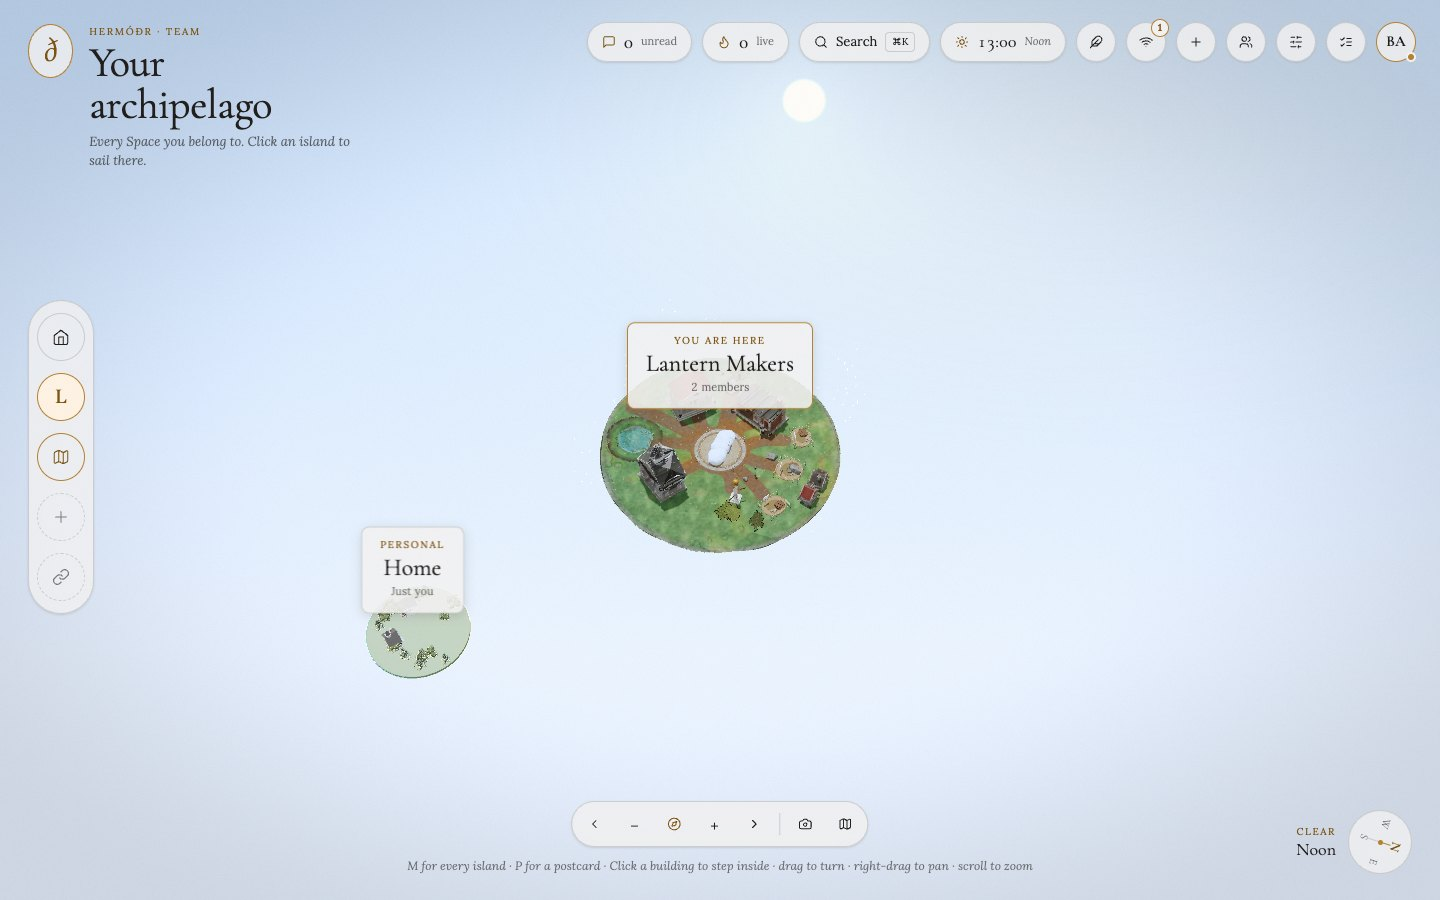
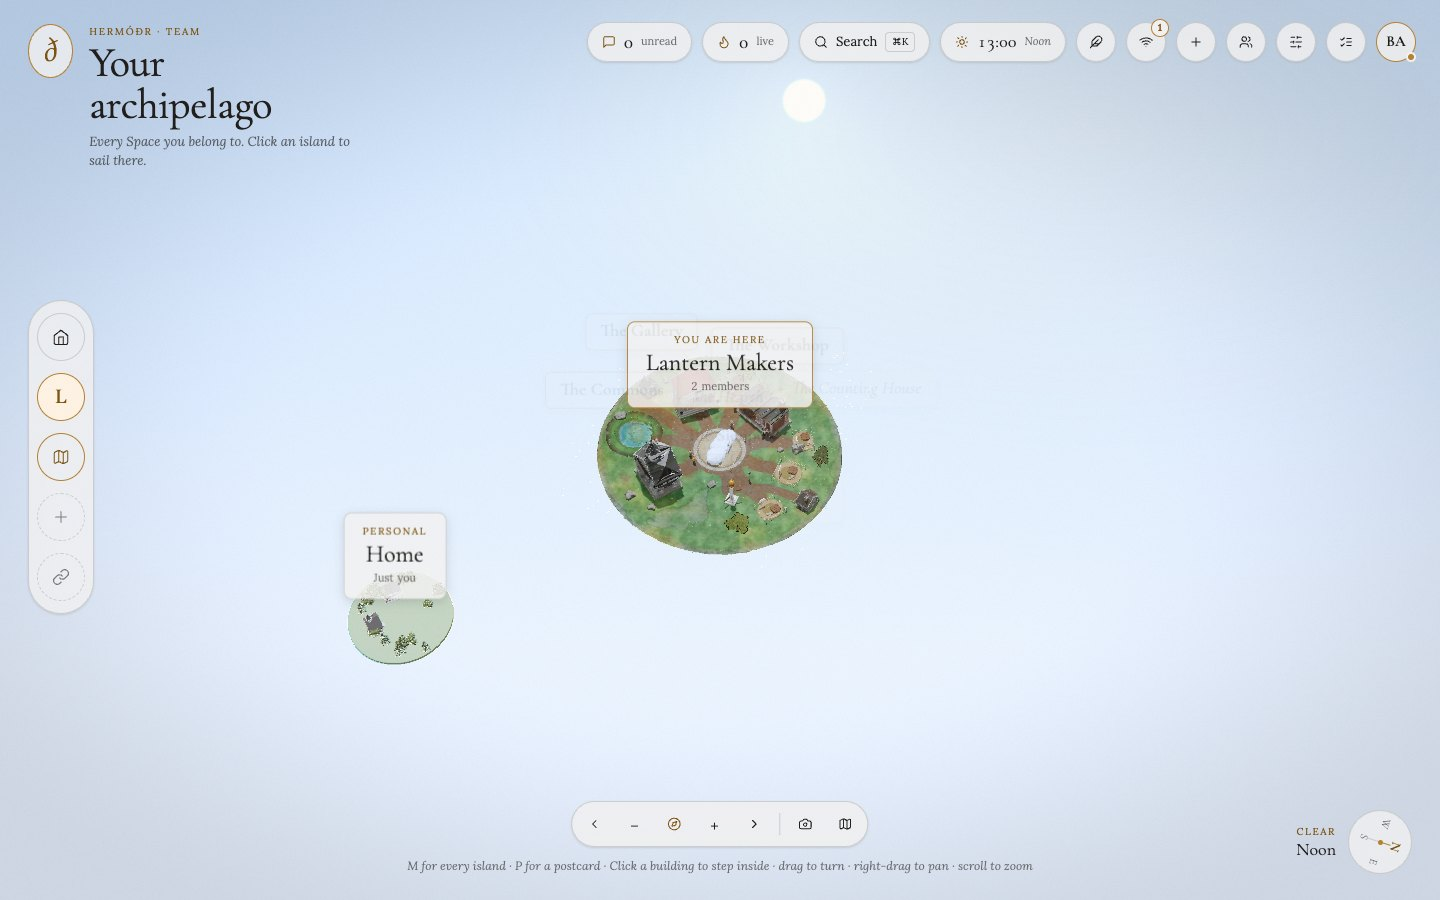
docs: feature showcase with real screenshots of every section in README and site

Changed region(s): [[0.4062, 0.3422, 0.5938, 0.6222], [0.2188, 0.56, 0.3438, 0.7778]]

diff --git a/e2e/shots.spec.ts b/e2e/shots.spec.ts
@@ -1,6 +1,7 @@
 import type { Locator, Page } from '@playwright/test';
-import { test, expect, twoUsers, createSpace, createInviteCode, joinWithCode, enterSection, toIsland, openPalette, say, toast } from './fixtures';
+import { test, expect, twoUsers, createSpace, createInviteCode, joinWithCode, enterSection, toIsland, openPalette, say, toast, pngBuffer } from './fixtures';
 import { freshDevhosts } from './devhosts';
+import { GL_ARGS } from './gpu';
 
 /**
  * README and site screenshots, taken headless from the real app: two devhosts, real P2P sync, content typed through the UI.
@@ -14,7 +15,13 @@ const SETTLE_MS = 2_500;
 const SYNC = { timeout: 60_000 };
 const SPACE = 'Lantern Makers';
 const TAGLINE = 'Paper, wire and late nights';
+/** Opening moves (from, to) played alternately by Ada and Bo for the arcade picture. */
+const CHESS_LINE: readonly [string, string][] = [['e2', 'e4'], ['e7', 'e5'], ['g1', 'f3'], ['b8', 'c6'], ['f1', 'b5'], ['a7', 'a6']];
+const DOC_TITLE = 'Lantern care manual';
+const DM_LINES = ['Did the washi survive the rain?', 'Dry as a bone. I wrapped it in the blue tarp.', 'Perfect. Can you bring the glue gun tomorrow?'];
 
+/** Chromium fake capture devices stand in for a microphone and camera, so a call connects headless. */
+test.use({ launchOptions: { args: [...GL_ARGS, '--use-fake-device-for-media-stream', '--use-fake-ui-for-media-stream'] } });
 test.skip(!process.env.SHOTS, 'screenshots run only with SHOTS=1 (npm run shots)');
 test.describe.configure({ mode: 'serial' });
 
@@ -110,4 +117,228 @@ test('every island', async () => {
   await b.keyboard.press('m');
   await shot(b, 'islands');
   await b.keyboard.press('Escape');
+});
+
+/** Sails back to the main Space (the DM test leaves both people on the DM island). */
+const toSpace = async (...pages: Page[]) => {
+  for (const p of pages) {
+    await toIsland(p);
+    await p.getByRole('navigation', { name: 'Spaces' }).getByRole('button', { name: SPACE }).click();
+    await expect(p.getByRole('heading', { level: 1 })).toHaveText(SPACE, SYNC);
+  }
+};
+const tabOf = (p: Page, name: string) => p.getByRole('tab', { name, exact: true }).last();
+
+test('feed with photos and a note', async () => {
+  test.setTimeout(300_000);
+  await enterSection(a, 'feed');
+  const photos: [string, [number, number, number]][] = [['Washi, fresh off the roll', [236, 190, 120]], ['Wire frame number three', [90, 110, 150]]];
+  for (const [title, [r, g, bl]] of photos) {
+    await btn(a, 'New post').click();
+    const [chooser] = await Promise.all([a.waitForEvent('filechooser'), btn(a, 'Choose a photo').click()]);
+    await chooser.setFiles([{ name: 'photo.png', mimeType: 'image/png', buffer: pngBuffer(r, g, bl) }]);
+    await a.getByLabel('Title (required)').fill(title);
+    await btn(a, 'Publish').click();
+    await expect(a.getByRole('article', { name: title })).toBeVisible();
+  }
+  await btn(a, 'New post').click();
+  await a.getByRole('radiogroup', { name: 'Kind of post' }).getByText('Note', { exact: true }).click();
+  await a.getByLabel('Title (required)').fill('Market stall plan');
+  await a.getByLabel('Note (required)').fill('Lanterns on the left, paper stars on the right, price cards in front.');
+  await btn(a, 'Publish').click();
+  await expect(a.getByRole('article', { name: 'Market stall plan' })).toBeVisible();
+  await enterSection(b, 'feed');
+  await expect(b.getByRole('article', { name: 'Market stall plan' })).toBeVisible(SYNC);
+  await a.mouse.move(0, 0);
+  await shot(a, 'feed');
+});
+
+test('gallery docs with a checklist', async () => {
+  test.setTimeout(300_000);
+  await enterSection(a, 'board');
+  await tabOf(a, 'Docs').click();
+  await btn(a, /New doc|Create a doc/).first().click();
+  await ask(a, { 'Title (required)': DOC_TITLE, 'Kind of document': 'Notes' }, 'Create doc');
+  await expect(a.getByRole('heading', { name: DOC_TITLE })).toBeVisible();
+  for (const line of ['Keep the washi dry and flat', 'Test every LED before gluing', 'Pack spare batteries for market']) {
+    await btn(a, /To-do/).click();
+    const fresh = a.getByRole('textbox', { name: 'To-do' }).last();
+    // Only the new, empty block may be filled; the last one would still be the previous line until the block renders.
+    await expect(fresh).toHaveValue('');
+    await fresh.fill(line);
+    await fresh.blur();
+    await expect(a.getByRole('checkbox', { name: `Toggle ${line}` })).toBeVisible();
+  }
+  await a.getByRole('checkbox', { name: 'Toggle Keep the washi dry and flat' }).click();
+  await a.mouse.move(0, 0);
+  await shot(a, 'docs');
+});
+
+test('calendar with a meeting', async () => {
+  test.setTimeout(300_000);
+  await enterSection(a, 'board');
+  await tabOf(a, 'Calendar').click();
+  await btn(a, /New meeting/).first().click();
+  await ask(a, { 'Title (required)': 'Saturday market setup' }, 'Add to calendar');
+  await expect(a.getByRole('heading', { name: 'Saturday market setup' })).toBeVisible();
+  await enterSection(b, 'board');
+  await tabOf(b, 'Calendar').click();
+  await btn(b, /Saturday market setup/).click(SYNC);
+  await btn(b, 'I’m going').click();
+  await expect(a.getByText(/Bo Andersen/).last()).toBeVisible(SYNC);
+  await a.mouse.move(0, 0);
+  await shot(a, 'calendar');
+});
+
+test('skein snapshot ledger', async () => {
+  test.setTimeout(300_000);
+  await enterSection(a, 'skein');
+  await btn(a, /Take a snapshot/).first().click();
+  await a.getByLabel('Title (required)').fill('Warm white LED lanterns');
+  const [chooser] = await Promise.all([a.waitForEvent('filechooser'), btn(a, 'Choose files').click()]);
+  await chooser.setFiles([
+    { name: 'lantern-frame.png', mimeType: 'image/png', buffer: pngBuffer(200, 150, 90) },
+    { name: 'wiring-notes.txt', mimeType: 'text/plain', buffer: Buffer.from('warm white LEDs\ntwo coin cells per frame\nwasabi paper panels\n') },
+  ]);
+  await expect(a.getByText(/wiring-notes\.txt · /)).toBeVisible();
+  await btn(a, 'Take snapshot').click();
+  await a.getByRole('button', { name: /Warm white LED lanterns/ }).click();
+  await expect(a.getByText(/Seal verified: every file matches/)).toBeVisible(SYNC);
+  await a.mouse.move(0, 0);
+  await shot(a, 'skein');
+});
+
+test('help desk with tickets', async () => {
+  test.setTimeout(300_000);
+  await enterSection(a, 'desk');
+  const tickets: [string, string][] = [
+    ['Stall power strip is missing', 'We need a power strip for the warm white LEDs at Saturday market.'],
+    ['Glue gun trips the breaker', 'It trips every time we heat it up next to the kiln.'],
+    ['Price cards printed too small', 'The cards are hard to read from a metre away.'],
+  ];
+  for (const [subject, body] of tickets) {
+    await a.getByTestId('new-ticket').click();
+    await a.getByTestId('nt-subject').fill(subject);
+    await a.getByTestId('nt-body').fill(body);
+    await a.getByTestId('nt-submit').click();
+    await expect(a.getByTestId('ticket-detail').getByTestId('ticket-subject')).toHaveText(subject);
+  }
+  await a.getByTestId('take-ticket').click();
+  await a.getByTestId('composer-input').fill('On it. I will bring a spare strip from the studio tomorrow.');
+  await a.getByTestId('composer-send').click();
+  await expect(a.getByTestId('ticket-detail').getByTestId('comment')).toHaveCount(1);
+  await a.mouse.move(0, 0);
+  await shot(a, 'desk');
+});
+
+test('arcade chess game in progress', async () => {
+  test.setTimeout(300_000);
+  await enterSection(a, 'arcade');
+  await expect(b.locator('[data-bld="arcade"]')).not.toHaveAttribute('data-empty', SYNC);
+  await enterSection(b, 'arcade', false);
+  await a.getByTestId('new-game').click();
+  await a.getByTestId('kind-chess').click();
+  await a.getByTestId('create-game-submit').click();
+  await expect(a.getByTestId('game-status')).toBeVisible();
+  await b.getByTestId('arcade-tab-games').click();
+  await b.locator('[data-testid="game-card"][data-kind="chess"]').first().getByTestId('join-game').click(SYNC);
+  await expect(b.getByTestId('game-status')).toBeVisible();
+  for (const [i, [from, to]] of CHESS_LINE.entries()) {
+    const who = i % 2 === 0 ? a : b;
+    await expect(who.getByTestId('game-status')).toHaveText(/Your move/, SYNC);
+    await who.getByTestId(`sq-${from}`).click();
+    await who.getByTestId(`sq-${to}`).click();
+  }
+  await expect(a.getByTestId('game-status')).toHaveText(/Your move/, SYNC);
+  // The "Your move" toast would sit on the board.
+  await expect(toast(a).filter({ hasText: /Your move in/ })).toHaveCount(0, SYNC);
+  await a.mouse.move(0, 0);
+  await shot(a, 'arcade');
+});
+
+test('direct message conversation', async () => {
+  test.setTimeout(300_000);
+  await enterSection(a, 'chat');
+  const input = await openPalette(a);
+  await input.fill('Bo Andersen');
+  await a.getByRole('listbox', { name: 'Results' }).getByRole('option').filter({ hasText: 'Bo Andersen' }).first().click();
+  // Picking a person sails to the DM island; walk into its chat building once it is there.
+  await expect(a.getByRole('heading', { level: 1 })).toHaveText('Bo Andersen', SYNC);
+  await enterSection(a, 'chat');
+  await say(a, DM_LINES[0]);
+  await b.getByRole('navigation', { name: 'Spaces' }).getByRole('button', { name: SPACE }).click();
+  await enterSection(b, 'chat');
+  // A first message from a non-contact lands in requests until accepted.
+  await b.getByRole('region', { name: 'Message requests' }).getByRole('button', { name: 'Accept' }).click(SYNC);
+  await expect(b.getByRole('heading', { level: 1 })).toHaveText('Ada Lovelace', SYNC);
+  await enterSection(b, 'chat');
+  await expect(article(b, DM_LINES[0])).toBeVisible(SYNC);
+  await post(b, a, DM_LINES[1]);
+  await post(a, b, DM_LINES[2]);
+  await a.mouse.move(0, 0);
+  await shot(a, 'direct-messages');
+});
+
+test('search results page', async () => {
+  test.setTimeout(300_000);
+  await toSpace(a, b);
+  await enterSection(a, 'chat');
+  const input = await openPalette(a);
+  await input.fill('lantern');
+  await a.getByRole('option', { name: /See all results/ }).click(SYNC);
+  const results = a.getByRole('dialog', { name: 'Search results' });
+  await expect(results.getByRole('list', { name: 'Results' }).getByRole('button', { name: new RegExp(DOC_TITLE) })).toBeVisible(SYNC);
+  await a.mouse.move(0, 0);
+  await shot(a, 'search');
+  await a.keyboard.press('Escape');
+  await expect(results).toHaveCount(0);
+});
+
+test('network and sharing settings', async () => {
+  await toIsland(a);
+  await btn(a, /^Network/).click();
+  await expect(a.getByRole('dialog', { name: /Network/ })).toBeVisible();
+  await a.mouse.move(0, 0);
+  await shot(a, 'network');
+  await a.keyboard.press('Escape');
+});
+
+test('rookery letters', async () => {
+  test.setTimeout(300_000);
+  await toSpace(a, b);
+  await enterSection(b, 'chat');
+  await toIsland(a);
+  await a.getByRole('navigation', { name: 'Spaces' }).getByRole('button', { name: 'Home' }).click();
+  const letter = a.locator('[data-obstacle]').filter({ hasText: 'A raven from' });
+  await say(b, 'The paper stars sold out by noon!');
+  await expect(letter).toContainText('paper stars', { timeout: 30_000 });
+  await letter.getByRole('button', { name: 'Dismiss' }).click();
+  await a.getByRole('button', { name: /^Rookery, \d+ new$/ }).first().click();
+  await expect(a.getByRole('dialog', { name: 'Rookery' })).toBeVisible();
+  await a.mouse.move(0, 0);
+  await shot(a, 'rookery');
+  await a.keyboard.press('Escape');
+});
+
+test('hearth call with an agenda', async () => {
+  test.setTimeout(300_000);
+  await toSpace(a, b);
+  await Promise.all([a, b].map((p) => p.context().grantPermissions(['microphone', 'camera'])));
+  for (const p of [a, b]) {
+    await enterSection(p, 'hearth');
+    await p.getByRole('button', { name: /Pull up a chair/ }).click();
+  }
+  for (const p of [a, b]) await expect(p.getByTestId('tile')).toHaveCount(2, { timeout: 60_000 });
+  await a.getByRole('button', { name: 'Make it a meeting' }).click();
+  const dlg = a.getByRole('dialog', { name: 'Make it a meeting' });
+  await dlg.getByLabel(/^Topic/).fill('Saturday market prep');
+  await dlg.getByLabel(/^Agenda/).fill('Count the finished lanterns\nDecide the price cards\nPack the van');
+  await dlg.getByRole('button', { name: 'Start meeting' }).click();
+  await expect(a.getByRole('heading', { name: 'Saturday market prep' })).toBeVisible({ timeout: 45_000 });
+  await b.getByLabel('Shared note').fill('Bo: 14 lanterns are ready, 6 still need LEDs.');
+  await b.keyboard.press('Enter');
+  await expect(a.getByText(/6 still need LEDs/)).toBeVisible(SYNC);
+  await expect(toast(a).filter({ hasText: /It.s a meeting now/ })).toHaveCount(0, SYNC);
+  await a.mouse.move(0, 0);
+  await shot(a, 'hearth');
 });

diff --git a/site/index.html b/site/index.html
@@ -47,10 +47,21 @@
   <section aria-labelledby="shots-h">
     <h2 id="shots-h">A look inside</h2>
     <div class="shots">
-      <figure class="shot"><img src="shots/town.jpg" width="1440" height="900" loading="lazy" alt="The island town of a Space called Lantern Makers, with the Commons, Gallery and Workshop raised and empty plots for more."><figcaption>Every Space is an island town. Buildings are its sections.</figcaption></figure>
-      <figure class="shot"><img src="shots/chat.jpg" width="1440" height="900" loading="lazy" alt="Chat in the Commons: two members plan a market stall, with a heart reaction on the last message."><figcaption>Chat syncs straight between members.</figcaption></figure>
-      <figure class="shot"><img src="shots/board.jpg" width="1440" height="900" loading="lazy" alt="A task board in the Workshop with cards in To do and Doing columns."><figcaption>Boards, docs and a calendar in the Workshop.</figcaption></figure>
+      <figure class="shot wide"><img src="shots/town.jpg" width="1440" height="900" loading="lazy" alt="The island town of a Space called Lantern Makers, with the Commons, Gallery and Workshop raised."><figcaption>Every Space is an island town. Buildings are its sections.</figcaption></figure>
+      <figure class="shot"><img src="shots/chat.jpg" width="1440" height="900" loading="lazy" alt="Chat in the Commons: two members plan a market stall, with a heart reaction on the last message."><figcaption>Chat with threads, reactions and markdown.</figcaption></figure>
+      <figure class="shot"><img src="shots/direct-messages.jpg" width="1440" height="900" loading="lazy" alt="A one-to-one conversation between Ada and Bo with three synced messages."><figcaption>Direct and group messages.</figcaption></figure>
+      <figure class="shot"><img src="shots/hearth.jpg" width="1440" height="900" loading="lazy" alt="A Hearth meeting called Saturday market prep with both people in the call, an agenda and a shared note."><figcaption>Calls that turn into meetings, with agenda and notes.</figcaption></figure>
+      <figure class="shot"><img src="shots/rookery.jpg" width="1440" height="900" loading="lazy" alt="The Rookery listing raven letters that arrived from another Space."><figcaption>Ravens carry news from your other Spaces.</figcaption></figure>
+      <figure class="shot"><img src="shots/feed.jpg" width="1440" height="900" loading="lazy" alt="The Gallery feed with two photo posts and a note."><figcaption>Photos, notes and stories in the Gallery.</figcaption></figure>
+      <figure class="shot"><img src="shots/skein.jpg" width="1440" height="900" loading="lazy" alt="The Skein ledger with a sealed snapshot, an image file and a text file with its diff."><figcaption>Signed file snapshots with diffs in the Loom.</figcaption></figure>
+      <figure class="shot"><img src="shots/board.jpg" width="1440" height="900" loading="lazy" alt="A task board in the Workshop with cards in To do and Doing columns."><figcaption>Boards for the work in progress.</figcaption></figure>
+      <figure class="shot"><img src="shots/docs.jpg" width="1440" height="900" loading="lazy" alt="A shared doc with a to-do list and its version history."><figcaption>Docs with version history.</figcaption></figure>
+      <figure class="shot"><img src="shots/calendar.jpg" width="1440" height="900" loading="lazy" alt="The calendar week view with an event and a Join in the Hearth button."><figcaption>A calendar that opens straight into a call.</figcaption></figure>
+      <figure class="shot"><img src="shots/desk.jpg" width="1440" height="900" loading="lazy" alt="The help desk with three open tickets and a reply on the selected ticket."><figcaption>A help desk in the Counting House.</figcaption></figure>
+      <figure class="shot"><img src="shots/arcade.jpg" width="1440" height="900" loading="lazy" alt="A chess game in progress between Ada and Bo."><figcaption>Games and activities in the Games Hall.</figcaption></figure>
+      <figure class="shot"><img src="shots/search.jpg" width="1440" height="900" loading="lazy" alt="Search results for lantern across a snapshot, a message, a post and a doc."><figcaption>One search across everything.</figcaption></figure>
       <figure class="shot"><img src="shots/islands.jpg" width="1440" height="900" loading="lazy" alt="The archipelago view showing the Lantern Makers island beside a personal Home island."><figcaption>All your Spaces at a glance.</figcaption></figure>
+      <figure class="shot"><img src="shots/network.jpg" width="1440" height="900" loading="lazy" alt="The network drawer with peers, bandwidth and sliders for what you share."><figcaption>You choose what you share with the mesh.</figcaption></figure>
     </div>
   </section>
 

diff --git a/site/style.css b/site/style.css
@@ -31,6 +31,7 @@ section h2{font-size:clamp(2rem,4vw,2.8rem);margin:0 0 1rem}
 .shots{display:grid;grid-template-columns:1fr 1fr;gap:1.5rem 1rem}
 @media(max-width:46rem){.shots{grid-template-columns:1fr}}
 .shot{margin:0}
+.shot.wide{grid-column:1/-1}
 .shot img{display:block;width:100%;height:auto;aspect-ratio:16/10;object-fit:cover;border:1px solid var(--line);border-radius:.5rem}
 .shot figcaption{color:var(--muted);font-size:.95rem;margin-top:.5rem}
 .card{background:var(--card);border:1px solid var(--line);border-radius:.6rem;padding:1.5rem}

diff --git a/README.md b/README.md
@@ -8,9 +8,45 @@ Website and downloads: https://hotocoo.github.io/hermod/
 
 ![The island town of a Space called Lantern Makers, with the Commons, Gallery and Workshop raised](docs/screenshots/town.jpg)
 
-| Chat | Board | All your Spaces |
+## What is inside
+
+Every Space is an island town. Each building is one part of the Space, and it grows as members use it.
+
+### Talk
+
+| Chat in the Commons | Direct messages |
+|---|---|
+| ![Chat in the Commons between two members, with a heart reaction](docs/screenshots/chat.jpg) | ![A one-to-one conversation between Ada and Bo, three synced messages](docs/screenshots/direct-messages.jpg) |
+| Channels, threads, reactions, markdown, code blocks and spoilers. | One-to-one and group DMs, synced straight between devices. |
+
+| The Hearth | Ravens |
+|---|---|
+| ![A Hearth meeting called Saturday market prep with both peers, an agenda and a shared note](docs/screenshots/hearth.jpg) | ![The Rookery drawer listing raven letters from Bo](docs/screenshots/rookery.jpg) |
+| Voice and video calls peer to peer. A call becomes a meeting with an agenda, shared notes and recording. | Messages from your other Spaces arrive as letters carried by ravens. |
+
+### Share
+
+| The Gallery feed | The Loom (Skein) |
+|---|---|
+| ![The Gallery feed with two photo posts and a note](docs/screenshots/feed.jpg) | ![The Skein ledger with a sealed snapshot, an image file and a text diff](docs/screenshots/skein.jpg) |
+| Photos, notes and stories, with media sent over the mesh. | Versioned file snapshots with signed seals and line diffs. |
+
+### Plan and work
+
+| Board | Docs | Calendar |
 |---|---|---|
-| ![Chat in the Commons between two members, with a heart reaction](docs/screenshots/chat.jpg) | ![A task board in the Workshop with cards in To do and Doing](docs/screenshots/board.jpg) | ![The archipelago view with a shared island and a personal Home island](docs/screenshots/islands.jpg) |
+| ![A task board in the Workshop with cards in To do and Doing](docs/screenshots/board.jpg) | ![The Lantern care manual doc with a to-do list and its version history](docs/screenshots/docs.jpg) | ![The calendar week view with Saturday market setup and a Join in the Hearth button](docs/screenshots/calendar.jpg) |
+
+| The Counting House | The Games Hall |
+|---|---|
+| ![The help desk with three open tickets and a reply on the selected one](docs/screenshots/desk.jpg) | ![A chess game in progress between Ada and Bo](docs/screenshots/arcade.jpg) |
+| A help desk: tickets, assignees, replies and satisfaction. | Chess, connect four, polls, quizzes, kudos and more, played live between members. |
+
+### Find and control
+
+| Search | All your Spaces | Network |
+|---|---|---|
+| ![The search results page for lantern, with hits across a snapshot, a message, a post and a doc](docs/screenshots/search.jpg) | ![The archipelago view with a shared island and a personal Home island](docs/screenshots/islands.jpg) | ![The network drawer with peers, bandwidth and the What you share sliders](docs/screenshots/network.jpg) |
 
 Screenshots are taken headless from the real app (two local peers, content typed through the UI) with `npm run shots`.
 
@@ -58,9 +94,9 @@ npx playwright test    # UI end-to-end tests
 
 ## Release process
 
-1. Bump the version in `src-tauri/tauri.conf.json` and `src-tauri/Cargo.toml`.
-2. Tag and push: `git tag vX.Y.Z && git push origin vX.Y.Z`. Tags with a suffix such as `-beta.1` are published as pre-releases.
-3. The `release` workflow builds macOS (Apple silicon and Intel), Linux and Windows installers, signs updater artifacts, and publishes the release with `latest.json`.
+1. Bump the version in `package.json`, `src-tauri/tauri.conf.json`, `src-tauri/Cargo.toml`, `crates/hermod-core/Cargo.toml` and `crates/hermod-node/Cargo.toml`. The release fails if the tag and any of these disagree.
+2. Tag and push: `git tag -a vX.Y.Z -m "Hermod vX.Y.Z" && git push origin vX.Y.Z`. Tags with a suffix such as `-beta.1` are published as pre-releases.
+3. The `release` workflow runs the Rust and web checks (the end-to-end suite runs on every push to `main` instead), then builds macOS (Apple silicon and Intel), Linux and Windows installers, signs updater artifacts, and publishes the release with `latest.json`.
 
 Repository secrets needed: `TAURI_SIGNING_PRIVATE_KEY`, `TAURI_SIGNING_PRIVATE_KEY_PASSWORD` (empty if the key has none). Optional for macOS signing: `APPLE_CERTIFICATE`, `APPLE_CERTIFICATE_PASSWORD`, `APPLE_SIGNING_IDENTITY`, `APPLE_ID`, `APPLE_PASSWORD`, `APPLE_TEAM_ID`.
 
